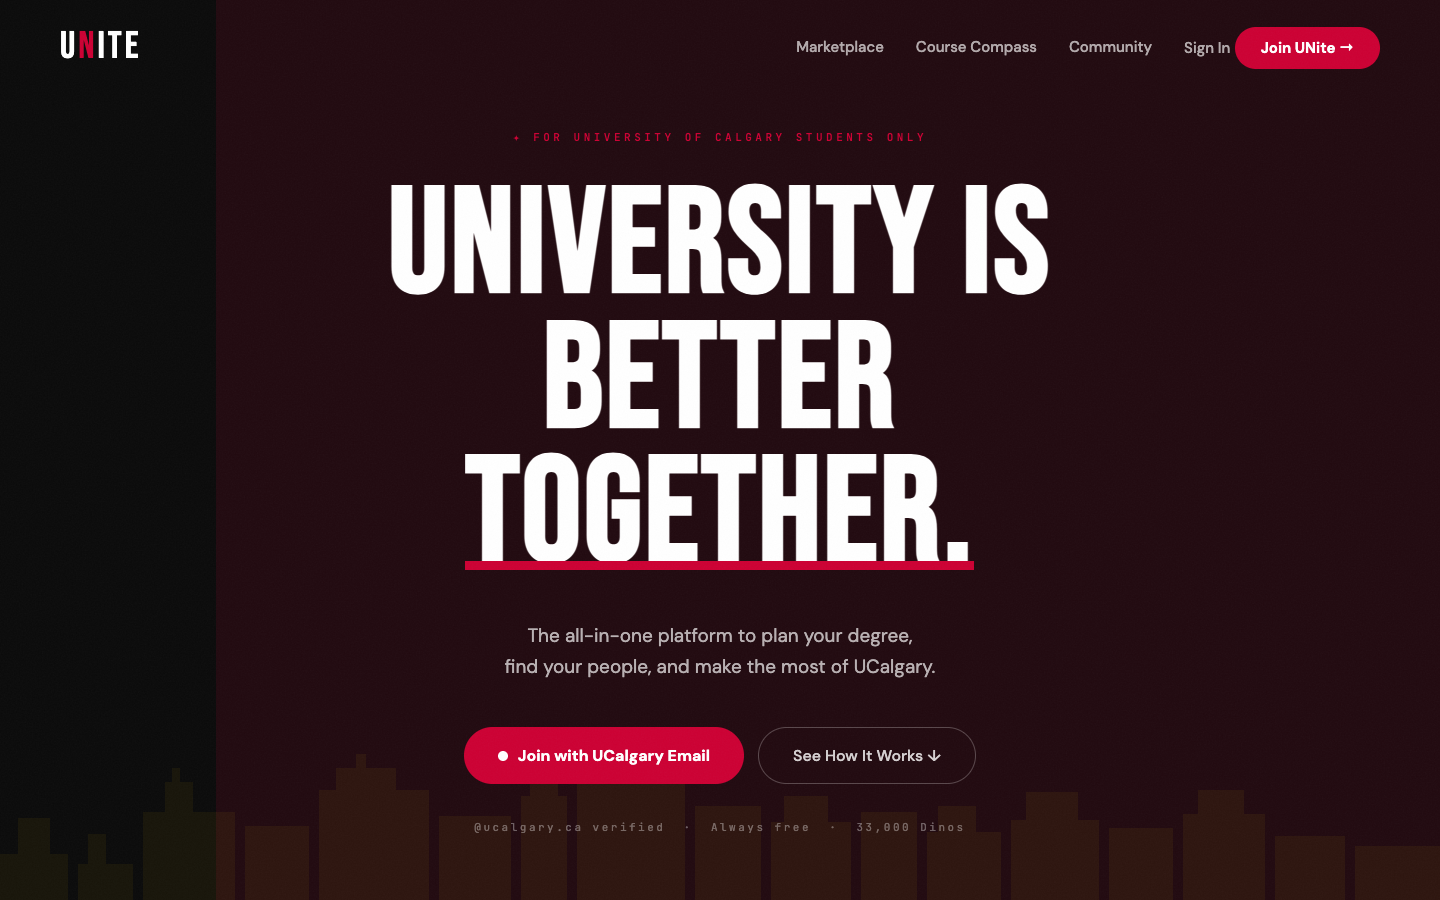
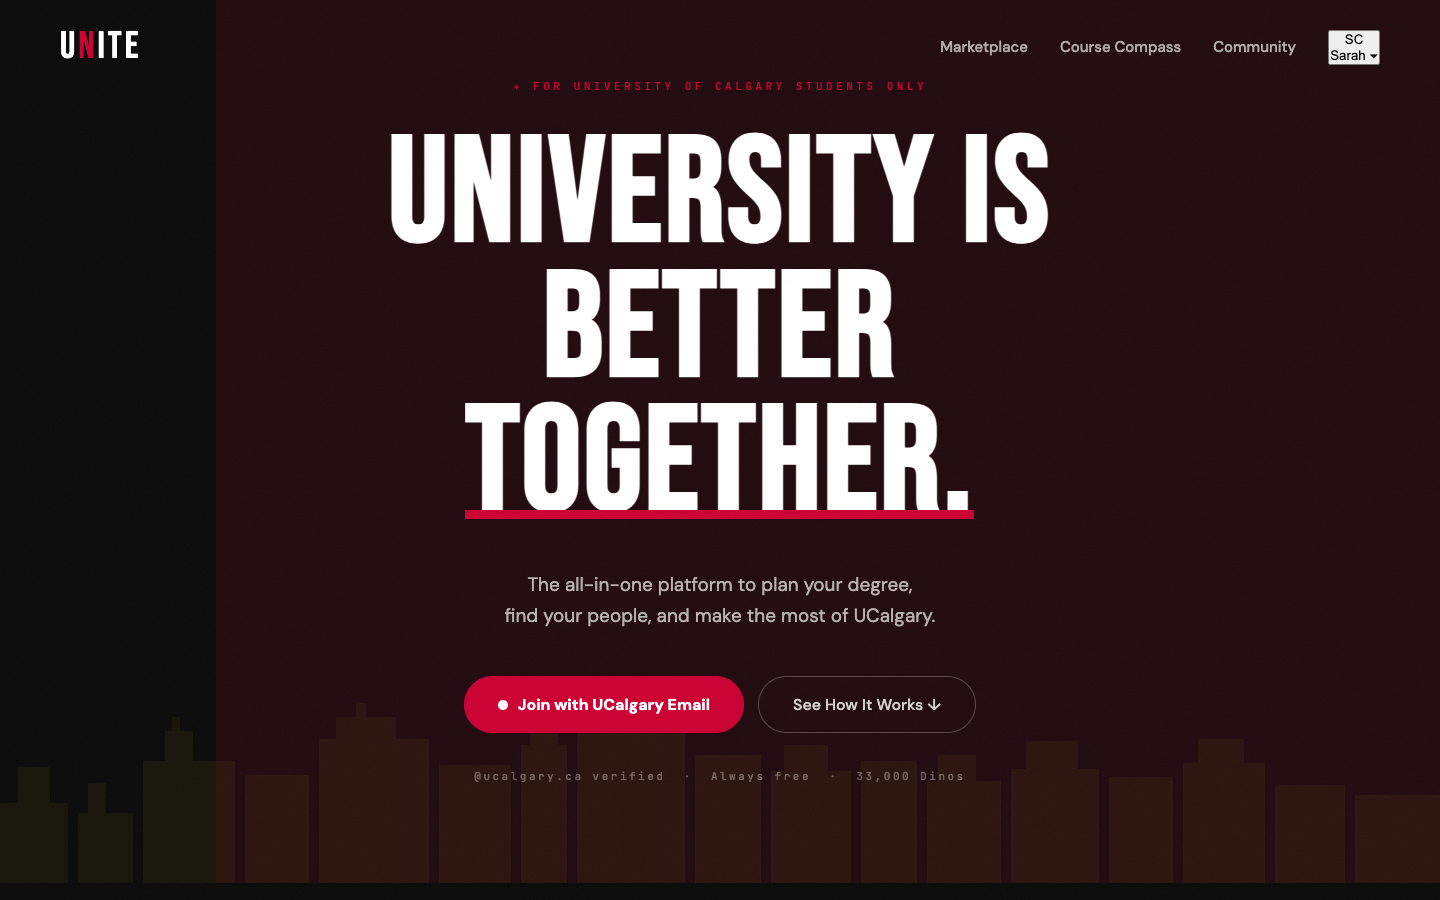
[FINAL] Judge screenshots from local build, force Railway redeploy, CSS/UI polish

Changed region(s): [[0.25, 0.1244, 0.75, 0.8711], [0.125, 0.9644, 1.0, 1.0], [0.5625, 0.0311, 0.9688, 0.0933]]

diff --git a/server/index.js b/server/index.js
@@ -1,4 +1,4 @@
-require('dotenv').config();
+require('dotenv').config(); // v2 — profile dropdown, email verification, onboarding guard
 const express = require('express');
 const cors = require('cors');
 const helmet = require('helmet');
